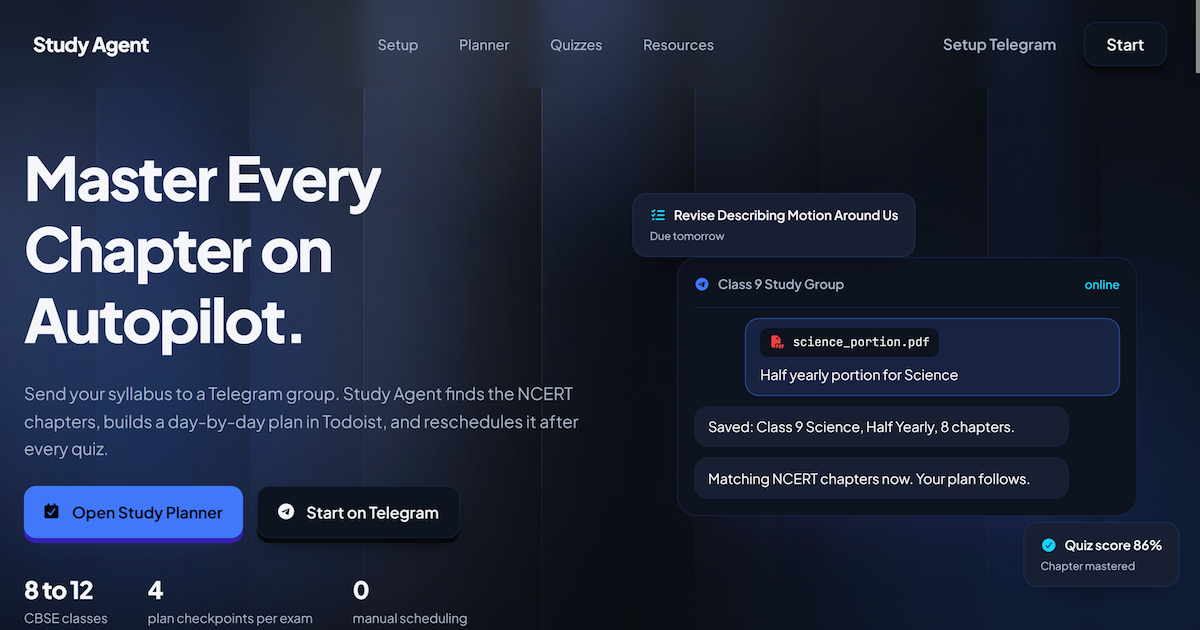
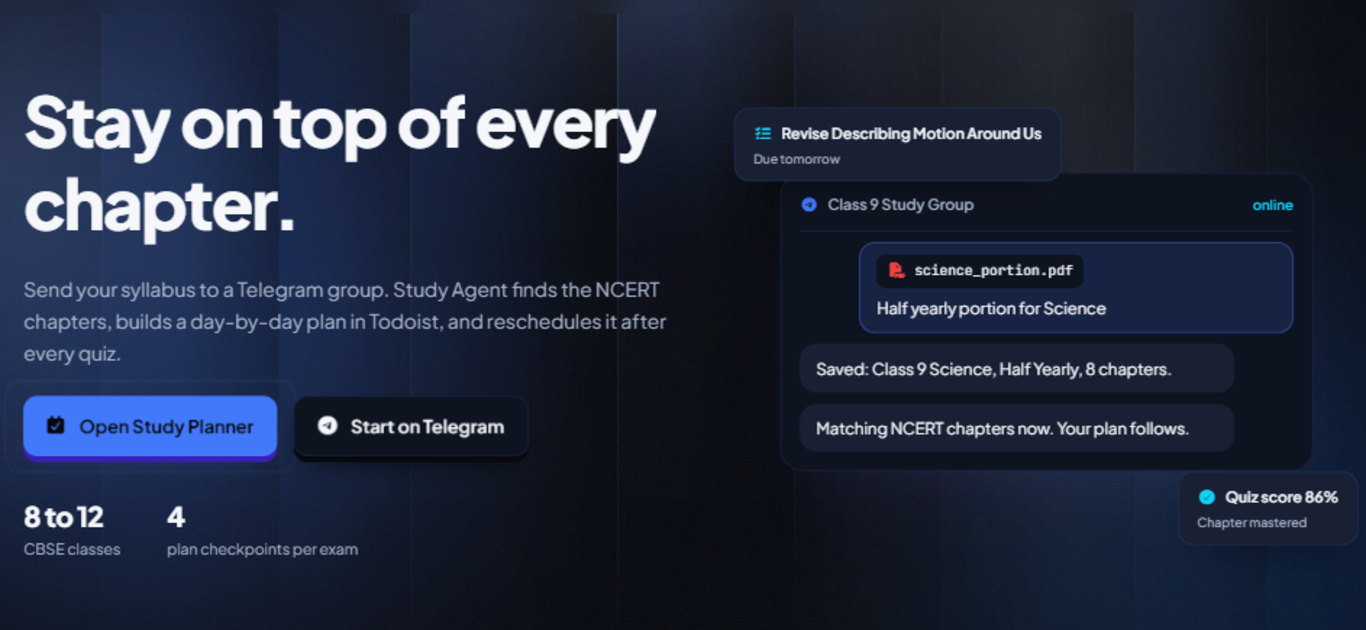
Edited index.html to add human touch also changed the meta data image

diff --git a/public/index.html b/public/index.html
@@ -100,7 +100,7 @@
     <main id="top">
         <section class="hero">
             <div class="hero-copy">
-                <h1>Master Every Chapter on Autopilot.</h1>
+                <h1>Stay on top of every chapter.</h1>
                 <p class="hero-sub">Send your syllabus to a Telegram group. Study Agent finds the NCERT chapters, builds
                     a day-by-day plan in Todoist, and reschedules it after every quiz.</p>
                 <div class="cta-row">
@@ -113,7 +113,7 @@
                 <div class="stats">
                     <div><b>8 to 12</b><span>CBSE classes</span></div>
                     <div><b>4</b><span>plan checkpoints per exam</span></div>
-                    <div><b>0</b><span>manual scheduling</span></div>
+                    <!-- <div><b>0</b><span>manual scheduling</span></div> -->
                 </div>
             </div>
             <div class="hero-visual">
@@ -214,12 +214,12 @@
         </section>
 
         <section class="section" id="features">
-            <h2 class="reveal">One agent, with a page for every part.</h2>
+            <h2 class="reveal">Set it up, plan it, quiz yourself, revise.</h2>
             <p class="lead reveal">Start here for the overview, then open a page to go deeper.</p>
             <div class="bento">
                 <a class="bento-card b-wide reveal" href="setup.html">
-                    <h3>Set up Telegram &amp; Todoist</h3>
-                    <p>Connect your Gemini keys, pair the Telegram bot, and link your Todoist API token in minutes.</p>
+                    <h3>Link everything once.</h3>
+                    <p>Add your Gemini key, pair Telegram, sign in to NotebookLM, link Todoist.</p>
                     <div class="mini">
                         <div class="msg me">Science portion for half yearly</div>
                         <div class="msg">Saved. 8 chapters found.</div>
@@ -230,7 +230,7 @@
                     <h3>Quizzes that reschedule</h3>
                     <p>Your score decides what happens next.</p>
                     <div class="mini">
-                        <div class="tierbar" style="--c: var(--accent-secondary); --w: 90%"><span>80% and
+                        <div class="tierbar" style="--c: var(--accent-success); --w: 90%"><span>80% and
                                 up</span><s></s></div>
                         <div class="tierbar" style="--c: var(--accent-warning); --w: 60%"><span>50 to 79%</span><s></s>
                         </div>
@@ -241,9 +241,15 @@
                 </a>
                 <a class="bento-card b-narrow reveal" href="resources.html">
                     <h3>Material for each chapter</h3>
-                    <p>NCERT PDF, a short summary and picked videos.</p>
-                    <div class="mini"><span class="file"><i class="fa-solid fa-file-pdf"></i> chapter_1.pdf</span>
-                        <div class="lines"><s></s><s></s><s></s></div>
+                    <p>NCERT PDF, picked videos, and NotebookLM flashcards, audio and mind maps.</p>
+                    <div class="mini">
+                        <span class="file"><i class="fa-solid fa-file-pdf"></i> chapter_1.pdf</span>
+                        <ul class="gen" aria-label="Study material generated for each chapter">
+                            <li><i class="fa-solid fa-clone"></i> Flashcards</li>
+                            <li><i class="fa-solid fa-headphones"></i> Audio</li>
+                            <li><i class="fa-solid fa-diagram-project"></i> Mind map</li>
+                            <li><i class="fa-brands fa-youtube"></i> Videos</li>
+                        </ul>
                     </div>
                     <span class="more">Browse resources <i class="fa-solid fa-arrow-right"></i></span>
                 </a>

diff --git a/public/theme.css b/public/theme.css
@@ -9,25 +9,37 @@
 
 :root {
   /* Core Backgrounds (Pitch Obsidian & Deep Midnight) */
-  --bg-primary: hsl(225, 40%, 4%);     /* Deepest obsidian midnight black */
-  --bg-surface: hsl(224, 38%, 9%);     /* Dark royal navy cards */
-  --bg-elevated: hsl(224, 35%, 15%);   /* Elevated interactive pills & chat bubbles */
+  --bg-primary: hsl(225, 40%, 4%);
+  /* Deepest obsidian midnight black */
+  --bg-surface: hsl(224, 38%, 9%);
+  /* Dark royal navy cards */
+  --bg-elevated: hsl(224, 35%, 15%);
+  /* Elevated interactive pills & chat bubbles */
 
   /* Hero Strips & Ambient 3D Atmosphere */
   --strip-hi: hsla(222, 95%, 62%, 0.22);
   --strip-lo: hsla(224, 38%, 15%, 0.08);
   --strip-edge: hsla(225, 40%, 2%, 0.75);
-  --orb-primary: hsla(222, 95%, 62%, 0.32);   /* Glowing Royal Sapphire Blue orb */
-  --orb-secondary: hsla(215, 85%, 48%, 0.18); /* Deep imperial navy ambient wash */
+  --orb-primary: hsla(222, 95%, 62%, 0.32);
+  /* Glowing Royal Sapphire Blue orb */
+  --orb-secondary: hsla(215, 85%, 48%, 0.18);
+  /* Deep imperial navy ambient wash */
 
   /* Typography */
-  --text-primary: hsl(220, 30%, 97%);  /* Pure ice white for crisp contrast */
-  --text-secondary: hsl(218, 25%, 72%);/* Soft cool slate for descriptions */
-  --text-muted: hsl(220, 18%, 48%);    /* Subdued navy-slate for labels */
+  --text-primary: hsl(220, 30%, 97%);
+  /* Pure ice white for crisp contrast */
+  --text-secondary: hsl(218, 25%, 72%);
+  /* Soft cool slate for descriptions */
+  --text-muted: hsl(220, 18%, 48%);
+  /* Subdued navy-slate for labels */
 
   /* Royal Blue Accents & Interactive Highlights */
-  --accent-primary: hsl(222, 95%, 62%);   /* Radiant Royal Blue for buttons & main accents */
-  --accent-secondary: hsl(190, 95%, 52%); /* Electric Cyan-Blue secondary highlight */
+  --accent-primary: hsl(222, 95%, 62%);
+  /* Radiant Royal Blue for buttons & main accents */
+  --accent-secondary: hsl(190, 95%, 52%);
+  --accent-success: hsl(145, 63%, 49%);
+  --accent-success-soft: hsla(145, 63%, 49%, 0.14);
+  /* Electric Cyan-Blue secondary highlight */
   --accent-warning: hsl(38, 92%, 50%);
   --accent-danger: hsl(0, 84%, 60%);
 
@@ -60,11 +72,14 @@ html.light {
   --orb-primary: hsla(222, 85%, 52%, 0.16);
   --orb-secondary: hsla(215, 80%, 40%, 0.08);
 
-  --text-primary: hsl(224, 45%, 12%);  /* Deep navy-black headings */
-  --text-secondary: hsl(220, 20%, 38%);/* Balanced slate body text */
+  --text-primary: hsl(224, 45%, 12%);
+  /* Deep navy-black headings */
+  --text-secondary: hsl(220, 20%, 38%);
+  /* Balanced slate body text */
   --text-muted: hsl(220, 15%, 56%);
 
-  --accent-primary: hsl(222, 85%, 52%);   /* Bold Royal Blue */
+  --accent-primary: hsl(222, 85%, 52%);
+  /* Bold Royal Blue */
   --accent-secondary: hsl(190, 90%, 40%);
   --accent-warning: hsl(38, 92%, 45%);
   --accent-danger: hsl(0, 84%, 55%);
@@ -83,5 +98,3 @@ html.light {
 
   --shadow-window: 0 30px 60px -34px hsla(222, 85%, 35%, 0.2);
 }
-
-

diff --git a/public/style.css b/public/style.css
@@ -1862,3 +1862,33 @@ html.light {
     display: block;
   }
 }
+
+.gen {
+  display: flex;
+  flex-wrap: wrap;
+  gap: 0.4rem;
+  margin: 0;
+  padding: 0;
+  list-style: none;
+}
+
+.gen li {
+  display: inline-flex;
+  align-items: center;
+  gap: 0.4rem;
+  padding: 0.3rem 0.65rem;
+  border-radius: 9999px;
+  background: var(--bg-elevated);
+  color: var(--text-secondary);
+  font-size: 0.75rem;
+  font-weight: 600;
+}
+
+.gen i {
+  color: var(--accent-primary);
+  font-size: 0.7rem;
+}
+
+.gen .fa-youtube {
+  color: var(--accent-danger);
+}
